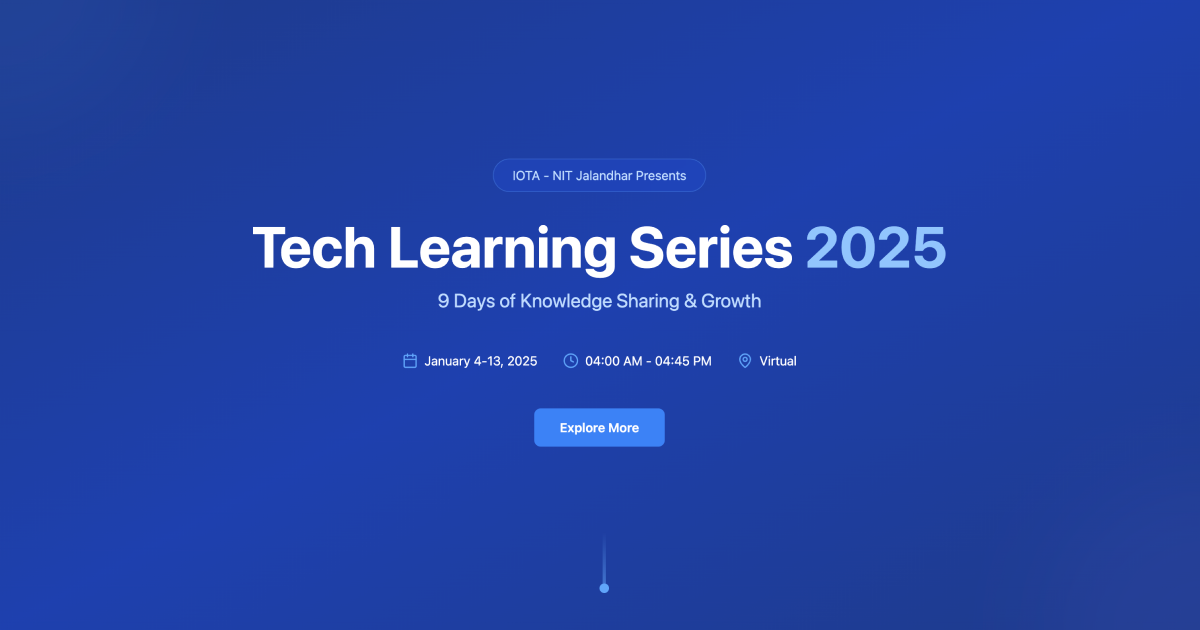
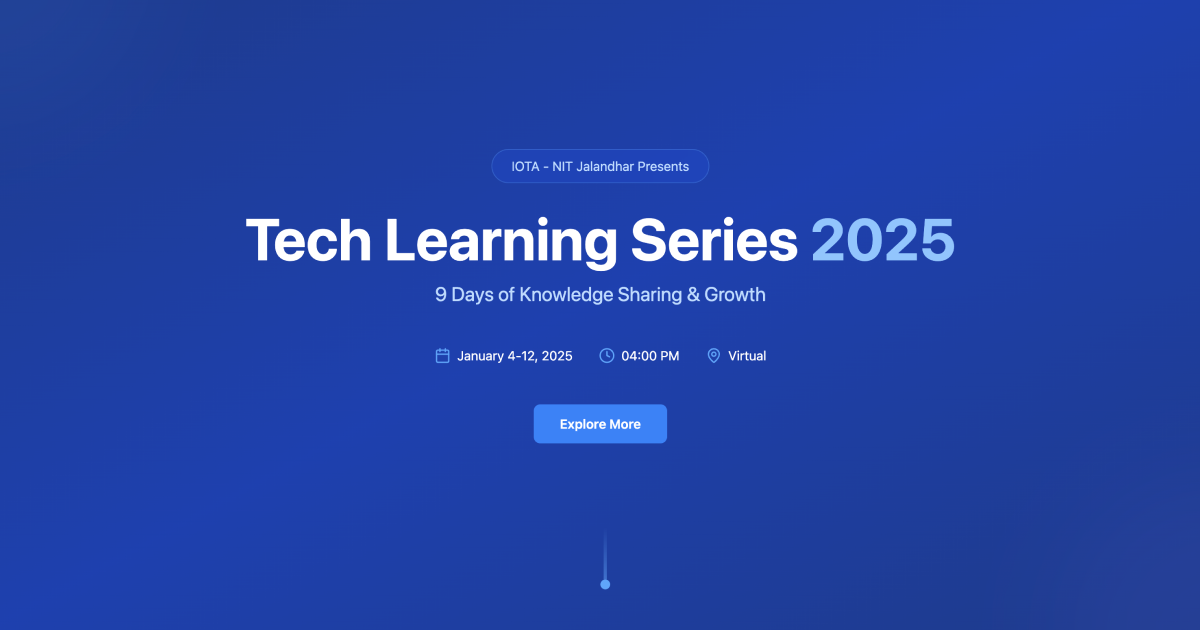
speakers updated

diff --git a/src/EventWebsite.jsx b/src/EventWebsite.jsx
@@ -46,10 +46,11 @@ const EventWebsite = () => {
       slides: "https://slides.com",
       video: "https://youtube.com",
       speaker: {
-        name: "xyz",
-        image: "/api/placeholder/150/150",
-        github: "https://github.com/sarahmiller",
-        linkedin: "https://linkedin.com/in/sarahmiller",
+        name: "Nidhi Yadav",
+        image:
+          "https://media.licdn.com/dms/image/v2/D5603AQEnNpmRcdy53A/profile-displayphoto-shrink_800_800/B56ZPlE.sFHoAc-/0/1734715115385?e=1741219200&v=beta&t=ctjAcY9slCR-kcdbw5E_iASkEwrCgXIFIQL0Zi8Eg3w",
+        github: "",
+        linkedin: "https://www.linkedin.com/in/nidhi-yadav-821404290/",
       },
     },
     {
@@ -61,10 +62,11 @@ const EventWebsite = () => {
       slides: "https://slides.com",
       video: "https://youtube.com",
       speaker: {
-        name: "Lisa Brown",
-        image: "/api/placeholder/150/150",
-        github: "https://github.com/lisabrown",
-        linkedin: "https://linkedin.com/in/lisabrown",
+        name: "Mohit Ranjan",
+        image:
+          "https://media.licdn.com/dms/image/v2/D4E03AQEnsWgwGRUPAQ/profile-displayphoto-shrink_800_800/profile-displayphoto-shrink_800_800/0/1729770463518?e=1741219200&v=beta&t=dm_MF1vcbVN3bp1MapoFgQq2Fc9zSyYJv8Mkfq__6EI",
+        github: "",
+        linkedin: "https://www.linkedin.com/in/itsmohitr/",
       },
     },
     {
@@ -92,15 +94,15 @@ const EventWebsite = () => {
       slides: "https://slides.com",
       video: "https://youtube.com",
       speaker: {
-        name: "James Wilson",
-        image: "/api/placeholder/150/150",
-        github: "https://github.com/jameswilson",
-        linkedin: "https://linkedin.com/in/jameswilson",
+        name: "Shashank",
+        image: "",
+        github: "",
+        linkedin: "",
       },
     },
     {
       title: "UI/UX Design",
-      date: "Jan 6, 2025",
+      date: "Jan 9, 2025",
       icon: Palette,
       color: "from-orange-500 to-pink-500",
       meet: "https://meet.google.com",
@@ -108,54 +110,55 @@ const EventWebsite = () => {
       video: "https://youtube.com",
       speaker: {
         name: "Chahat Kesharwani",
-        image: "/api/placeholder/150/150",
+        image:
+          "https://media.licdn.com/dms/image/v2/D4D03AQGYfizBcQGVXA/profile-displayphoto-shrink_800_800/profile-displayphoto-shrink_800_800/0/1698137364469?e=1741219200&v=beta&t=R7fzAqHEFVmY0NXMemIuDu7LgzD5RFz3BP3rUcy1mS0",
         github: "https://github.com/chahatkesh",
         linkedin: "https://linkedin.com/in/chahatkesharwani",
       },
     },
     {
       title: "Machine Learning & AI",
-      date: "Jan 5, 2025",
+      date: "Jan 10, 2025",
       icon: Brain,
       color: "from-purple-500 to-indigo-500",
       meet: "https://meet.google.com",
       slides: "https://slides.com",
       video: "https://youtube.com",
       speaker: {
-        name: "Emma Watson",
-        image: "/api/placeholder/150/150",
-        github: "https://github.com/emmawatson",
-        linkedin: "https://linkedin.com/in/emmawatson",
+        name: "Unknown",
+        image: "",
+        github: "",
+        linkedin: "",
       },
     },
     {
       title: "Git and GitHub",
-      date: "Jan 9, 2025",
+      date: "Jan 11, 2025",
       icon: Github,
       color: "from-gray-600 to-gray-900",
       meet: "https://meet.google.com",
       slides: "https://slides.com",
       video: "https://youtube.com",
       speaker: {
-        name: "Rachel Kim",
-        image: "/api/placeholder/150/150",
-        github: "https://github.com/rachelkim",
-        linkedin: "https://linkedin.com/in/rachelkim",
+        name: "Unknown",
+        image: "",
+        github: "",
+        linkedin: "",
       },
     },
     {
       title: "LinkedIn",
-      date: "Jan 10, 2025",
+      date: "Jan 12, 2025",
       icon: Linkedin,
       color: "from-blue-600 to-blue-800",
       meet: "https://meet.google.com",
       slides: "https://slides.com",
       video: "https://youtube.com",
       speaker: {
-        name: "Tom Anderson",
-        image: "/api/placeholder/150/150",
-        github: "https://github.com/tomanderson",
-        linkedin: "https://linkedin.com/in/tomanderson",
+        name: "Unknown",
+        image: "",
+        github: "",
+        linkedin: "",
       },
     },
   ];
@@ -190,11 +193,11 @@ const EventWebsite = () => {
           <div className="flex flex-col md:flex-row items-center gap-8 mb-12">
             <div className="flex items-center gap-2">
               <Calendar className="w-5 h-5 text-blue-400" />
-              <span>January 4-13, 2025</span>
+              <span>January 4-12, 2025</span>
             </div>
             <div className="flex items-center gap-2">
               <Clock className="w-5 h-5 text-blue-400" />
-              <span>04:00 AM - 04:45 PM</span>
+              <span>04:00 PM</span>
             </div>
             <div className="flex items-center gap-2">
               <MapPin className="w-5 h-5 text-blue-400" />
